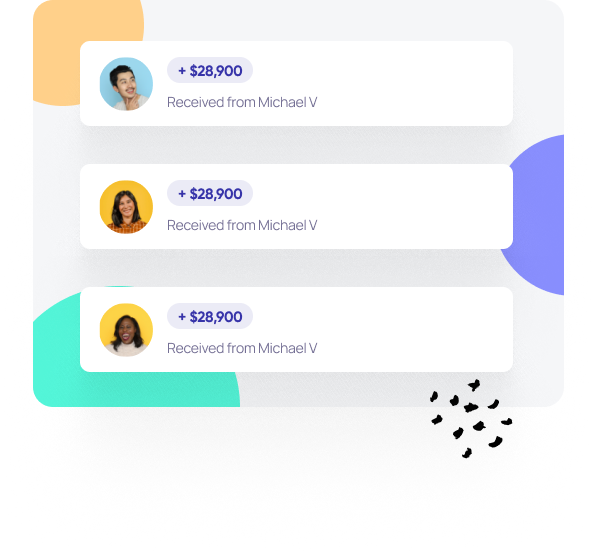
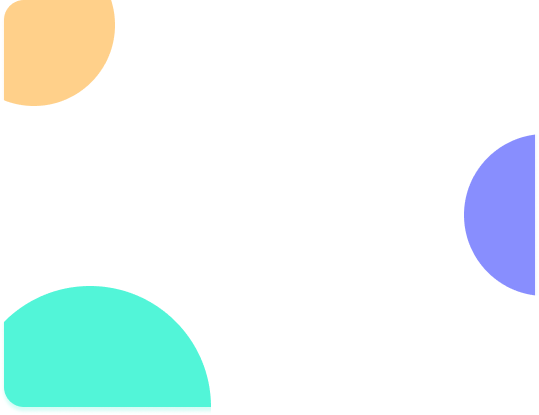
five

diff --git a/src/components/Payment/PayPart.jsx b/src/components/Payment/PayPart.jsx
@@ -2,17 +2,43 @@ import "./paypart.css"
 import Card2 from "../../assets/Card2.png"
 import { Col, Container, Row } from "react-bootstrap"
 import Featurereusable from "../reusable/Featurereusable"
+import Ellipse from "../../assets/small/Ellipse.png"
+import Ellipse1 from "../../assets/small/Ellipse1.png"
+import Ellipse2 from "../../assets/small/Ellipse2.png"
 
 const PayPart = () => {
     return (
-        <section>
+        <section id="paypart">
             <Container>
                 <Row>
                     <Featurereusable title="Our Feature" headt="Receive payments quickly from anywhere"
                         para="Why kept very ever home mrs. Considered sympathize ten uncommonly occasional assistance sufficient not. Letter of on become he tended active enable to." />
 
-                    <Col lg={6} xs={12}>
+                    <Col lg={6} xs={12} className="pay_maiimg">
                         <img src={Card2} className="w-100 mt-4" alt="Card2" />
+                        <div className="pay_img">
+                            <div className="pay_dtls d-flex">
+                                <img src={Ellipse} alt="" />
+                                <div className="pay_img_text">
+                                    <h3>+ $28,900</h3>
+                                    <h5>Received from Michael V</h5>
+                                </div>
+                            </div>
+                            <div className="pay_dtls d-flex">
+                                <img src={Ellipse1} alt="" />
+                                <div className="pay_img_text">
+                                    <h3>+ $28,900</h3>
+                                    <h5>Received from Michael V</h5>
+                                </div>
+                            </div>
+                            <div className="pay_dtls d-flex">
+                                <img src={Ellipse2} alt="" />
+                                <div className="pay_img_text">
+                                    <h3>+ $28,900</h3>
+                                    <h5>Received from Michael V</h5>
+                                </div>
+                            </div>
+                        </div>
                     </Col>
                 </Row>
             </Container>

diff --git a/src/components/Banner/Banner.jsx b/src/components/Banner/Banner.jsx
@@ -3,13 +3,14 @@ import banner from "../../assets/banner.png"
 import { Col, Container, Row } from "react-bootstrap"
 import { FaCirclePlay } from "react-icons/fa6";
 import { Startreusable } from "../reusable/Startreusable";
+import Ellipse2 from "../../assets/small/Ellipse2.png"
 
 const Banner = () => {
     return (
         <section id="banner">
             <Container>
                 <Row>
-                    <Col lg={6} xs={12} className="ban_text p-0">
+                    <Col lg={6} xs={12} className="ban_text">
                         <h1>Managing business payments has never been easier</h1>
                         <Col lg={9}>
                             <p>End-to-end payments and financial management in a single solution. Meet the right platform to help realize.
@@ -20,8 +21,17 @@ const Banner = () => {
                             <a href="#" className="seeas"><FaCirclePlay className="ban_icon" /> See How It Works</a>
                         </div>
                     </Col>
-                    <Col lg={6} xs={12} className="p-0">
+                    <Col lg={6} xs={12} className="bann_img_part">
                         <img src={banner} className="bann_img" alt="banner" />
+                        <div className="banner_img">
+                            <div className="pay_dtls d-flex">
+                                <img src={Ellipse2} alt="" />
+                                <div className="pay_img_text">
+                                    <h3>+ $28,900</h3>
+                                    <h5>Received from Michael V</h5>
+                                </div>
+                            </div>
+                        </div>
                     </Col>
                 </Row>
             </Container>

diff --git a/src/components/Payment/paypart.css b/src/components/Payment/paypart.css
@@ -1,14 +1,74 @@
-
+*{
+    font-family: "Manrope", sans-serif;
+}
+#paypart{
+    margin-bottom: 30px;
+}
+.pay_maiimg{
+    position: relative;
+}
+.pay_img{
+    position: absolute;
+    top: 50%;
+    left: 25%;
+    transform: translateY(-50%);
+}
+.pay_dtls{
+    border: 2px solid #F5F6F8;
+    padding: 20px;
+    background-color: #F5F6F8;
+    border-radius: 20px;
+    margin-bottom: 30px;
+    cursor: pointer;
+    box-shadow: rgba(14, 30, 37, 0.12) 0px 2px 4px 0px, rgba(14, 30, 37, 0.32) 0px 2px 16px 0px;
+}
+.pay_dtls:hover{
+    box-shadow: rgba(0, 0, 0, 0.25) 0px 25px 50px -12px;
+}
+.pay_img_text{
+    margin-left: 30px;
+}
+.pay_img_text h3{
+    font-size: 15px;
+    font-weight: 600;
+    line-height: 14px;
+    color: #3734A9;
+}
+.pay_img_text h5{
+    font-size: 14px;
+    font-weight: 400;
+    line-height: 30px;
+    color: #757095;
+}
 @media (min-width:320px) and (max-width:575.98px){
-    
+    .pay_dtls{
+        padding: 10px;
+        margin-bottom: 10px;
+        box-shadow: rgba(14, 30, 37, 0.12) 0px 2px 4px 0px, rgba(14, 30, 37, 0.32) 0px 2px 16px 0px;
+    }
+    .pay_img_text h3{
+        font-size: 12px;
+        line-height: 10px;
+    }
+    .pay_img_text h5{
+        font-size: 10px;
+        
+        line-height: 10px;
+    }
+    .pay_dtls img{
+        width: 20%;
+    }
+    .pay_img{
+        position: absolute;
+        top: 56%;
+        left: 10%;
+    }
 }
 @media (min-width:576px) and (max-width:767.98px){
     
 }
 @media (min-width:768px) and (max-width:991.98px){
-    .navbar-collapse{
-        text-align: center;
-    }
+    
 }
 @media (min-width:992px) and (max-width:1199.98px){
     

diff --git a/src/components/Banner/banner.css b/src/components/Banner/banner.css
@@ -5,7 +5,7 @@
     margin-top: 50px;
 }
 .ban_text{
-    margin-top: 30px !important;
+    margin-top: 100px !important;
 }
 .ban_text h1{
     color: #000;
@@ -39,7 +39,15 @@
 .bann_img{
     width: 100%;
 }
-
+.bann_img_part{
+    position: relative;
+}
+.banner_img{
+    position: absolute;
+    top: 50%;
+    left: -20px;
+    transform: translateY(-50%);
+}
 @media (min-width:320px) and (max-width:575.98px){
     .ban_text h1{
         font-size: 40px;
@@ -58,7 +66,13 @@
     .see .btn{
         margin-bottom: 30px;
     }
-    
+    .banner_img{
+        top: 40%;
+        left: 10%;
+    }
+    .bann_img{
+        margin-bottom: 30px;
+    }
     
 }
 @media (min-width:576px) and (max-width:767.98px){
